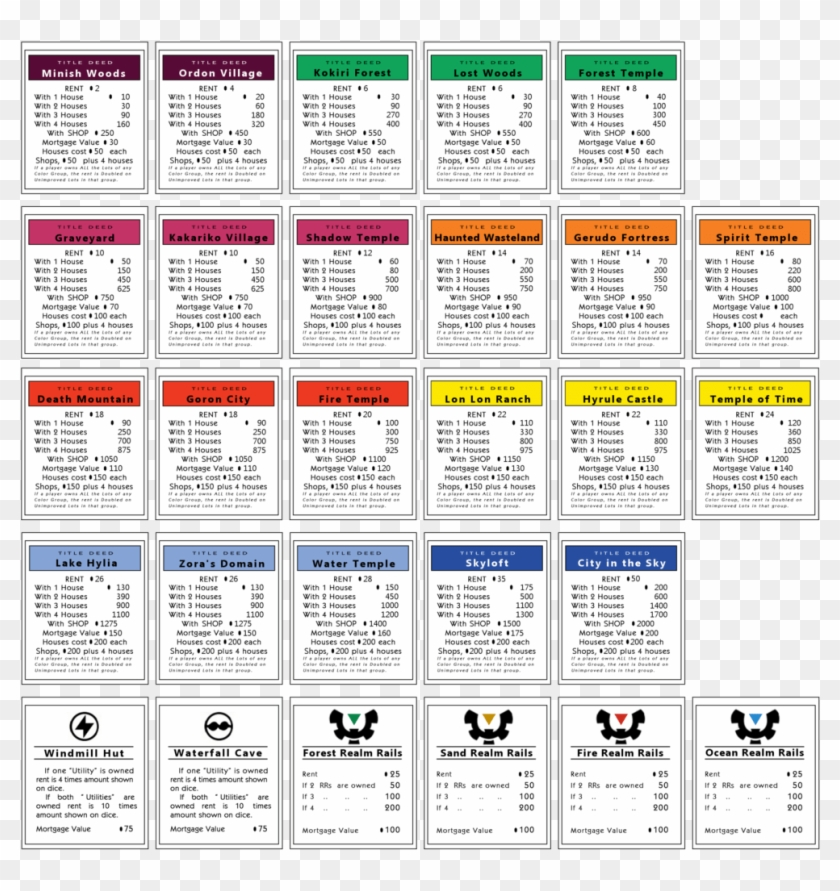
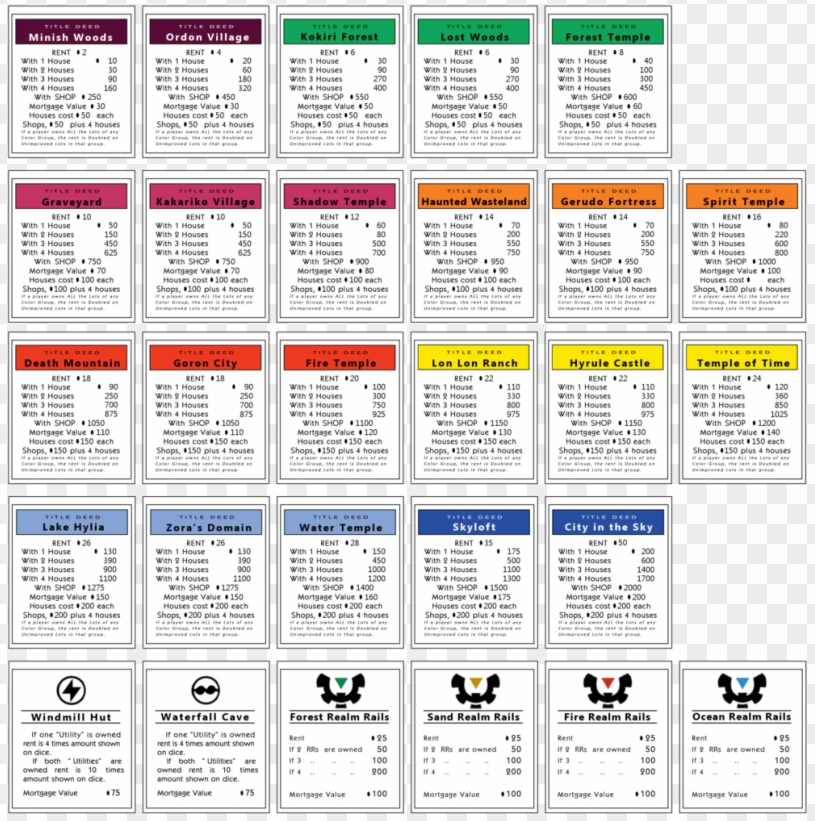
in progress ...

diff --git a/src/Board/Board.java b/src/Board/Board.java
@@ -156,6 +156,7 @@ public class Board {
         fields[38] = f38;
         fields[39] = f39;
 
+
     }
 
     public void loadBoard() {
@@ -167,69 +168,160 @@ public class Board {
 
     }
 
-    private void loadImgsTitleDeeds() {
+    public void loadImgsTitleDeeds() {
         titleDeedsImg = new BufferedImage[6][5];
         BufferedImage temp = LoadSave.GetSpriteAtlas(LoadSave.TITLE_ATLAS);
         for (int j = 0; j < titleDeedsImg.length; j++) {
             for (int i = 0; i < titleDeedsImg[j].length; i++) {
-                titleDeedsImg[j][i] = temp.getSubimage(i * TD_WIDTH_DEFAULT,  j*TD_HEIGHT_DEFAULT, TD_WIDTH_DEFAULT, TD_HEIGHT_DEFAULT);
+                titleDeedsImg[j][i] = temp.getSubimage(i * TD_WIDTH_DEFAULT, 0, TD_WIDTH_DEFAULT, TD_HEIGHT_DEFAULT);
             }
         }
     }
+
     public void drawTitleDeeds(Graphics g) {
-        g.drawImage(titleDeedsImg[index1][index2], 700, 170, TD_WIDTH_DEFAULT, TD_HEIGHT_DEFAULT, null);
+        g.drawImage(titleDeedsImg[index1][index2], 870, 170, (int) (TD_WIDTH_DEFAULT * 1.4), (int) (TD_HEIGHT_DEFAULT * 1.4), null);
     }
 
-    public void printResult(int fieldNumber) {
-        switch (fieldNumber) {
-            case 1 -> titleDeedsImg[index1][index2] = titleDeedsImg[0][0];
-//            case 2 -> ;
-            case 3 -> titleDeedsImg[index1][index2] = titleDeedsImg[0][1];
-//            case 4 -> ;
-            case 5 -> titleDeedsImg[index1][index2] = titleDeedsImg[4][2];
-            case 6 -> titleDeedsImg[index1][index2] = titleDeedsImg[0][2];
-//            case 7 -> titleDeedsImg[index] = titleDeedsImg[5];
-            case 8 -> titleDeedsImg[index1][index2] = titleDeedsImg[0][3];
-            case 9 -> titleDeedsImg[index1][index2] = titleDeedsImg[0][4];
-//            case 10 -> titleDeedsImg[index] = titleDeedsImg[5];
-            case 11 -> titleDeedsImg[index1][index2] = titleDeedsImg[1][0];
-            case 12 -> titleDeedsImg[index1][index2] = titleDeedsImg[4][0];
-            case 13 -> titleDeedsImg[index1][index2] = titleDeedsImg[1][1];
-            case 14 -> titleDeedsImg[index1][index2] = titleDeedsImg[1][2];
-            case 15 -> titleDeedsImg[index1][index2] = titleDeedsImg[4][3];
-            case 16 -> titleDeedsImg[index1][index2] = titleDeedsImg[1][3];
-//            case 17 -> titleDeedsImg[index] = titleDeedsImg[5];
-            case 18 -> titleDeedsImg[index1][index2] = titleDeedsImg[1][4];
-            case 19 -> titleDeedsImg[index1][index2] = titleDeedsImg[1][5];
-//            case 20 -> titleDeedsImg[index] = titleDeedsImg[5];
-            case 21 -> titleDeedsImg[index1][index2] = titleDeedsImg[2][0];
-//            case 22 -> titleDeedsImg[index] = titleDeedsImg[5];
-            case 23 -> titleDeedsImg[index1][index2] = titleDeedsImg[2][1];
-            case 24 -> titleDeedsImg[index1][index2] = titleDeedsImg[2][2];
-            case 25 -> titleDeedsImg[index1][index2] = titleDeedsImg[4][4];
-            case 26 -> titleDeedsImg[index1][index2] = titleDeedsImg[2][3];
-            case 27 -> titleDeedsImg[index1][index2] = titleDeedsImg[2][4];
-            case 28 -> titleDeedsImg[index1][index2] = titleDeedsImg[4][1];
-            case 29 -> titleDeedsImg[index1][index2] = titleDeedsImg[2][5];
-//            case 30 -> titleDeedsImg[index] = titleDeedsImg[5];
-            case 31 -> titleDeedsImg[index1][index2] = titleDeedsImg[3][0];
-            case 32 -> titleDeedsImg[index1][index2] = titleDeedsImg[3][1];
-//            case 33 -> titleDeedsImg[index] = titleDeedsImg[5];
-            case 34 -> titleDeedsImg[index1][index2] = titleDeedsImg[3][2];
-            case 35 -> titleDeedsImg[index1][index2] = titleDeedsImg[4][5];
-//            case 36 -> titleDeedsImg[index] = titleDeedsImg[5];
-            case 37 -> titleDeedsImg[index1][index2] = titleDeedsImg[3][3];
-//            case 38 -> titleDeedsImg[index] = titleDeedsImg[5];
-            case 39 -> titleDeedsImg[index1][index2] = titleDeedsImg[3][4];
-//            case 40 -> titleDeedsImg[index] = titleDeedsImg[5];
+    public void printResult(int[] fieldNumber) {
+
+        for (Field field : fields) {
+            for (int j : fieldNumber) {
+                if (field.number == j) {
+                    switch (field.number) {
+//                        case 0 -> {
+//                            index1 = 0;
+//                            index2 = 0;
+//                        }
+                        case 1 -> {
+                            index1 = 0;
+                            index2 = 0;
+                        }
+                        case 2 -> {
+                            index1 = 0;
+                            index2 = 1;
+                        }
+//            case 3 -> ;
+                        case 4 -> {
+                            index1 = 4;
+                            index2 = 2;
+                        }
+                        case 5 -> {
+                            index1 = 0;
+                            index2 = 2;
+                        }
+//            case 6 -> titleDeedsImg[index] = titleDeedsImg[5];
+                        case 7 -> {
+                            index1 = 0;
+                            index2 = 3;
+                        }
+                        case 8 -> {
+                            index1 = 0;
+                            index2 = 4;
+                        }
+//            case 9 -> titleDeedsImg[index] = titleDeedsImg[5];
+                        case 10 -> {
+                            index1 = 1;
+                            index2 = 0;
+                        }
+                        case 11 -> {
+                            index1 = 4;
+                            index2 = 0;
+                        }
+                        case 12 -> {
+                            index1 = 1;
+                            index2 = 1;
+                        }
+                        case 13 -> {
+                            index1 = 1;
+                            index2 = 2;
+                        }
+                        case 14 -> {
+                            index1 = 4;
+                            index2 = 3;
+                        }
+                        case 15 -> {
+                            index1 = 1;
+                            index2 = 3;
+                        }
+//            case 16 -> titleDeedsImg[index] = titleDeedsImg[5];
+                        case 17 -> {
+                            index1 = 1;
+                            index2 = 4;
+                        }
+                        case 18 -> {
+                            index1 = 1;
+                            index2 = 5;
+                        }
+//            case 19 -> titleDeedsImg[index] = titleDeedsImg[5];
+                        case 20 -> {
+                            index1 = 2;
+                            index2 = 0;
+                        }
+//            case 21 -> titleDeedsImg[index] = titleDeedsImg[5];
+                        case 22 -> {
+                            index1 = 2;
+                            index2 = 1;
+                        }
+                        case 23 -> {
+                            index1 = 2;
+                            index2 = 2;
+                        }
+                        case 24 -> {
+                            index1 = 4;
+                            index2 = 4;
+                        }
+                        case 25 -> {
+                            index1 = 2;
+                            index2 = 3;
+                        }
+                        case 26 -> {
+                            index1 = 2;
+                            index2 = 4;
+                        }
+                        case 27 -> {
+                            index1 = 4;
+                            index2 = 1;
+                        }
+                        case 28 -> {
+                            index1 = 2;
+                            index2 = 5;
+                        }
+//            case 29 -> titleDeedsImg[index] = titleDeedsImg[5];
+                        case 30 -> {
+                            index1 = 3;
+                            index2 = 0;
+                        }
+                        case 31 -> {
+                            index1 = 3;
+                            index2 = 1;
+                        }
+//            case 32 -> titleDeedsImg[index] = titleDeedsImg[5];
+                        case 33 -> {
+                            index1 = 3;
+                            index2 = 2;
+                        }
+                        case 34 -> {
+                            index1 = 4;
+                            index2 = 5;
+                        }
+//            case 35 -> titleDeedsImg[index] = titleDeedsImg[5];
+                        case 36 -> {
+                            index1 = 3;
+                            index2 = 3;
+                        }
+//            case 37 -> titleDeedsImg[index] = titleDeedsImg[5];
+                        case 38 -> {
+                            index1 = 3;
+                            index2 = 4;
+                        }
+//            case 39 -> titleDeedsImg[index] = titleDeedsImg[5];
 
 
-
-
-
-            default -> {
+                        default -> {
+                        }
+                    }
+                }
             }
         }
     }
-
 }

diff --git a/src/gamestate/Playing.java b/src/gamestate/Playing.java
@@ -20,8 +20,9 @@ public class Playing extends State implements Statemethods {
 
 
     private int boardX, boardY, boardWidth, boardHeight,
-            consoleX,consoleY,consoleWidth,consoleHeight,
+            consoleX, consoleY, consoleWidth, consoleHeight,
             playerX, playerY, playerWidth, playerHeight;
+    int[] posNum;
 
     private boolean active = true;
     Board board;
@@ -38,6 +39,7 @@ public class Playing extends State implements Statemethods {
         board = new Board(boardX, boardY, boardWidth, boardHeight, this);
         board.loadBoard();
         board.setFields();
+        board.loadImgsTitleDeeds();
 
 
         dice1 = new Dice((int) (Game.GAME_WIDTH / 3.5 - boardWidth / 2), (int) (boardHeight + 475),
@@ -46,8 +48,9 @@ public class Playing extends State implements Statemethods {
                 this);
 
         loadPlayer();
-
         player = new Player(playerX, playerY, playerWidth, playerHeight, this);
+
+
 
 //        gameOverOverlay = new GameOverOverlay(this);
 
@@ -70,21 +73,45 @@ public class Playing extends State implements Statemethods {
         int borderD = 580;
 
         //        move left
-        if(playerX>borderL&&playerY==borderD)
-            playerX -=  53;
-        //        move up
-        else if(playerX==borderL&&playerY>borderU)
-            playerY -=  52;
-        //       move right
-        else if(playerX<borderR&&playerY==borderU)
+        if (playerX > borderL && playerY == borderD)
+            playerX -= 53;
+            //        move up
+        else if (playerX == borderL && playerY > borderU)
+            playerY -= 52;
+            //       move right
+        else if (playerX < borderR && playerY == borderU)
             playerX += 53;
-        //        down
-        else if(playerX==borderR&&playerY<borderD)
-            playerY +=  52;
+            //        down
+        else if (playerX == borderR && playerY < borderD)
+            playerY += 52;
 
         player.setLocation(playerX, playerY);
         System.out.println(playerY);
     }
+
+    public void setPosNum() {
+        posNum = new int[40];
+
+        for (int i = 0; i < 10; i++) {
+            if (playerX == (580 - 53*i) && playerY == 580)
+                posNum[i] = i;
+        }
+
+        for (int i = 10; i < 20; i++) {
+            if (playerX == 50 && playerY == (580-52*i))
+                posNum[i] = i;
+        }
+        for (int i = 20; i < 30; i++) {
+            if (playerX == (50+53*i) && playerY == 60)
+                posNum[i] = i;
+        }
+        for (int i = 30; i < 40; i++) {
+            if (playerX == 580 && playerY == (60+53*i))
+                posNum[i] = i;
+        }
+
+    }
+
 
 
     @Override
@@ -98,6 +125,7 @@ public class Playing extends State implements Statemethods {
     public void draw(Graphics g) {
 
         board.drawBoard(g);
+        board.drawTitleDeeds(g);
         player.render(g);
         dice1.draw(g);
         dice2.draw(g);
@@ -125,8 +153,14 @@ public class Playing extends State implements Statemethods {
 
         int diceTotal = dice1.rollDice + dice2.rollDice;
         for (int i = 0; i < diceTotal; i++) {
+            setPosNum();
             movePlayer();
+            board.printResult(posNum);
         }
+
+//        board.printResult(posNum);
+
+
     }
 
 

diff --git a/src/gamestate/Utilz/Constants.java b/src/gamestate/Utilz/Constants.java
@@ -23,7 +23,7 @@ public class Constants {
 
     public static class TitleDeeds {
         public static final int TD_WIDTH_DEFAULT = 140;
-        public static final int TD_HEIGHT_DEFAULT = 178;
+        public static final int TD_HEIGHT_DEFAULT = 164;
         public static final int TD_WIDTH = (int) (TD_WIDTH_DEFAULT * Game.SCALE / 12);
         public static final int TD_HEIGHT = (int) (TD_HEIGHT_DEFAULT * Game.SCALE / 12);
     }

diff --git a/src/gamestate/Utilz/LoadSave.java b/src/gamestate/Utilz/LoadSave.java
@@ -20,7 +20,6 @@ public class LoadSave {
 
 
 
-
     public static BufferedImage GetSpriteAtlas(String fileName) {
         BufferedImage img = null;
         InputStream is = LoadSave.class.getResourceAsStream("/" + fileName);
